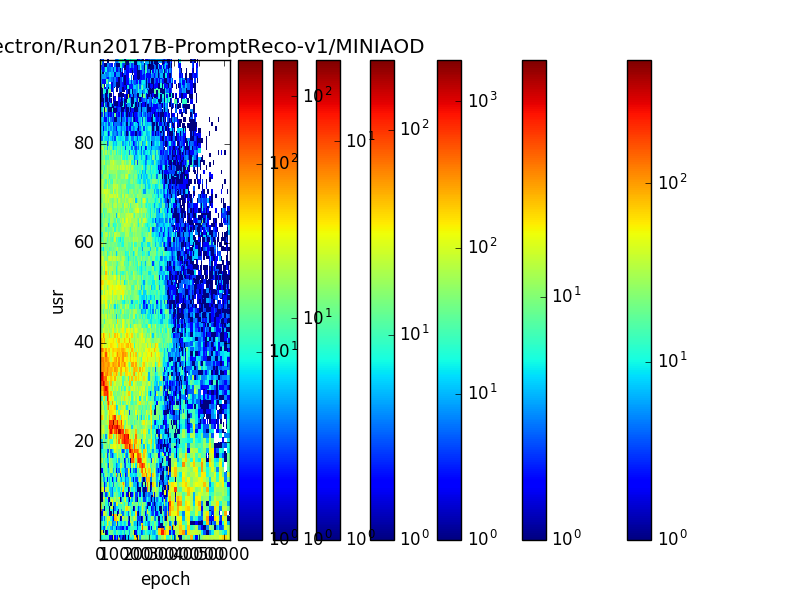
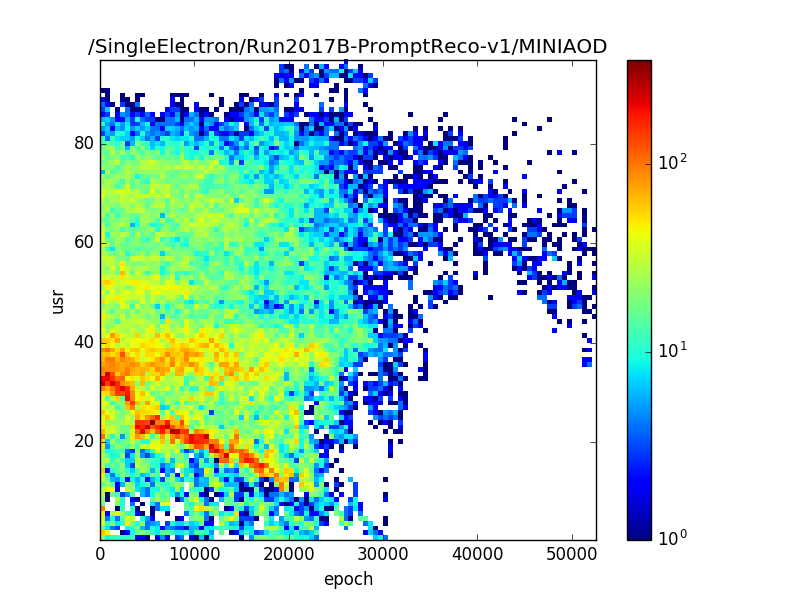
updated web interface with bootstrapper and fixed graphs

diff --git a/webinterface/templates/home.html b/webinterface/templates/home.html
@@ -1,21 +1,10 @@
-<!DOCTYPE html>
+{% extends 'layout.html' %}
 
-<html>
-    <head>
-    </head>
-
-    <body>
-        <h1>
-            Copy and paste one of the the below names into url to navigate to graph<br />
-            (i.e. 127.0.0.1:5000/paste_here)
-        </h1>
-        
-{% for dsn in dsnLst %}
-            {{dsn}}
-            <br />
-            <br />
+{% block body %}
+    <h1>Data Sets</h1>
+    <ul class="list-group">
+        {% for dsn in dsnLst %}
+            <li class="list-group-item"><a href="graphs/{{dsn}}">{{dsn}}</a></li>
         {% endfor %}
-
-    </body>
-
-</html>
+    </ul>
+{% endblock %}

diff --git a/webinterface/templates/layout.html b/webinterface/templates/layout.html
@@ -1,0 +1,14 @@
+<!DOCTYPE html>
+
+<html>
+    <head>
+        <title>Plotter</title>
+        <link rel="stylesheet" href="https://maxcdn.bootstrapcdn.com/bootstrap/3.3.7/css/bootstrap.min.css">
+    </head>
+
+    <body>
+        {% block body %}{% endblock %}
+        <script src="https://maxcdn.bootstrapcdn.com/bootstrap/3.3.7/js/bootstrap.min.js"></script>
+    </body>
+
+</html>

diff --git a/webinterface/templates/graphs.html b/webinterface/templates/graphs.html
@@ -1,0 +1,6 @@
+{% extends 'layout.html' %}
+
+{% block body %}
+    <h1>{{dsname}}</h1>
+    <img src="{{url_for('static', filename = dsname + '_epoch_vs_usr.png')}}" alt="Image failed to load" />
+{% endblock %}

diff --git a/webinterface/PlotterInterface.py b/webinterface/PlotterInterface.py
@@ -19,9 +19,9 @@ graph_template = Template("""
 def home():
     return render_template("home.html", dsnLst = dsnLst)
 
-@app.route('/<dsname>')
+@app.route('/graphs/<string:dsname>/')
 def graph(dsname):
-    return(graph_template.substitute(dsname=dsname))
+    return render_template("graphs.html", dsname=dsname)
 
 if __name__ == "__main__":
     app.run()

diff --git a/webinterface/Plotter.py b/webinterface/Plotter.py
@@ -87,6 +87,7 @@ def set_graph_info(title, xlabel, ylabel):
             file_title += (wrd + '_')
     
     plt.savefig('static/' + file_title + xlabel + '_vs_' + ylabel + '.png')
+    plt.close()
     
     return
 
